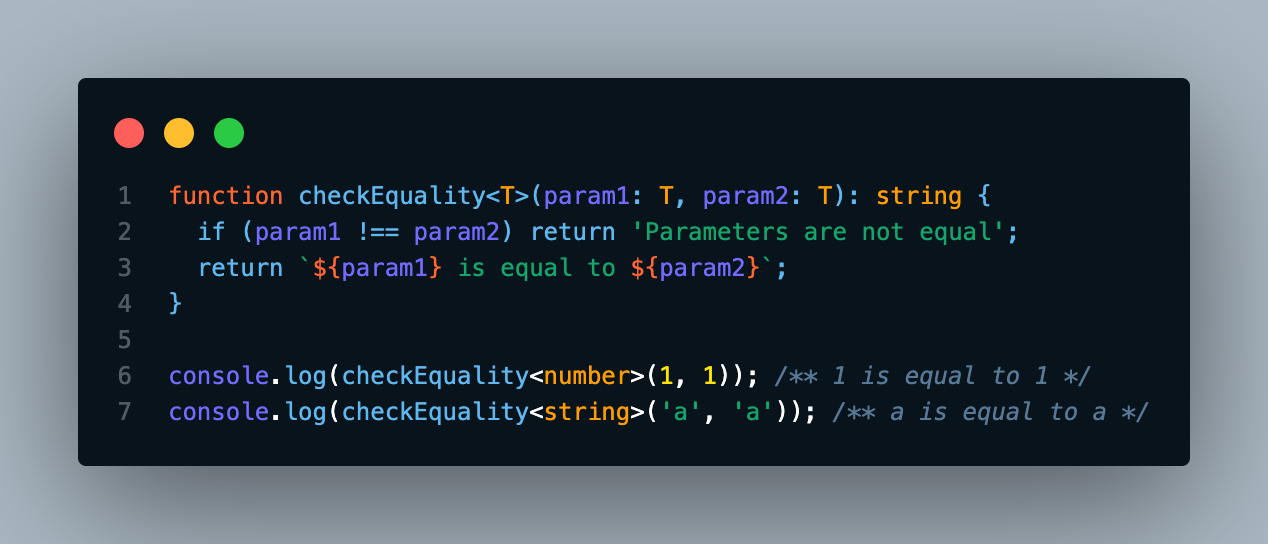
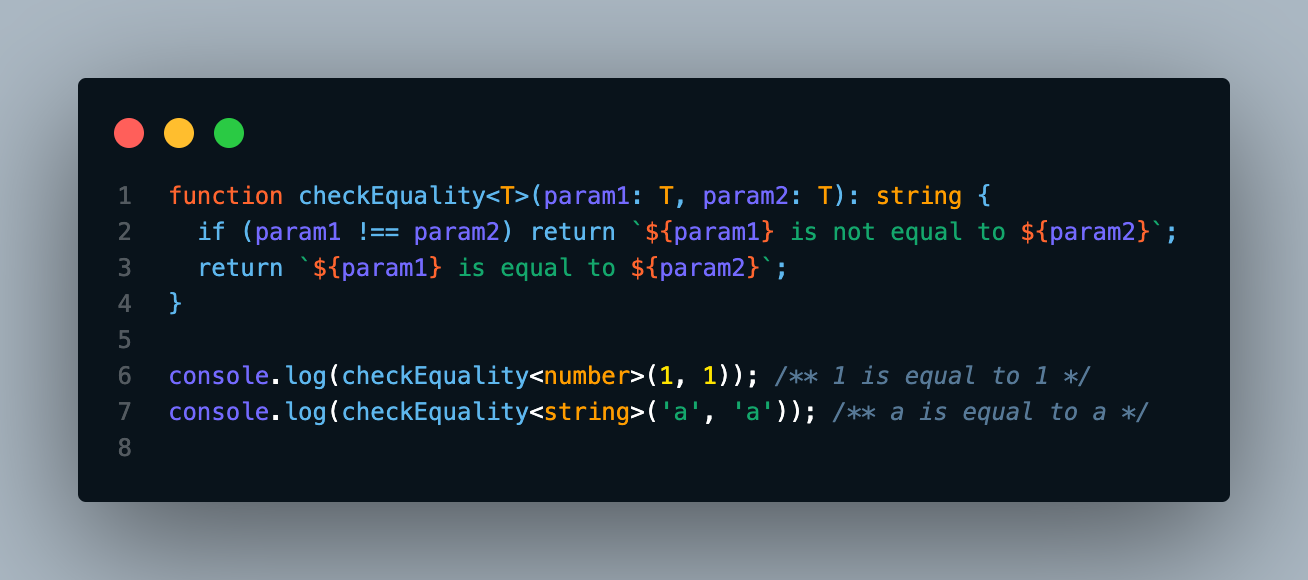
adicionando algumas correções feitas por Caio César e Daniel Outeiro

diff --git a/README.md b/README.md
@@ -1,16 +1,21 @@
-# Generics em TypeScript - Aplicações práticas
+# Aplicações na prática de tipos genéricos em TypeScript
 
 Esse conteúdo foi criado para a segunda etapa do processo seletivo de Summer Job de Currículo na [Trybe](https://www.betrybe.com/).
 
 <br>
 
-# O que vamos aprender? 
+## O que vamos aprender? 
 
 Hoje iremos aprender sobre **Generics**, uma funcionalidade fundamental do **TypeScript** e também de outras linguagens fortemente tipadas como **C#** e **Java**. Você verá como ele funciona na prática, e esse conhecimento será essencial para tornar seu código mais *flexível* e *reutilizável*. Vamos lá? 🚀
 
 <br>
 
-# Você será capaz de:
+---
+
+<br>
+
+
+## Você será capaz de:
 
 * Compreender o que são **Generics**
 * Utilizar Generics em funções
@@ -20,7 +25,14 @@ Hoje iremos aprender sobre **Generics**, uma funcionalidade fundamental do **Typ
 
 <br>
 
-# Por que isso é importante?
+---
+
+<br>
+
+## Por que isso é importante?
+
+<br>
+
 
 Sabemos que o **TypeScript** veio para solucionar problemas que o **JavaScript** por si só não consegue, sendo o principal deles, a tipagem de elementos. Saber os tipos das variáveis com que estamos trabalhando é um passo essencial para tornarmos nosso código mais robusto, confiável e menos propenso a erros.
 
@@ -42,16 +54,6 @@ Para começar, vamos a um exemplo prático. Suponha que você quer criar uma fun
 
 <br>
 
-<!-- ```typescript
-function checkEqualNumbers(num1: number, num2: number): string {
-  if (num1 !== num2) return `${num1} is not equal to ${num2}`;
-  return `${num1} is equal to ${num2}`;
-}
-
-console.log(checkEqualNumbers(1, 2)); /** 1 is not equal to 2 */
-console.log(checkEqualNumbers(1, 1)); /** 1 is equal to 1 */
-``` -->
-
 ![equalNumbers](./assets/equalNumbers.png)
 
 <br>
@@ -59,16 +61,6 @@ console.log(checkEqualNumbers(1, 1)); /** 1 is equal to 1 */
 Agora, imagine que você precise criar uma função que verifique se duas strings são iguais. Isso poderia ser feito assim:
 
 <br>
-
-<!-- ```typescript
-function checkEqualStrings(str1: string, str2: string): string {
-  if (str1 !== str2) return `${str1} is not equal to ${str2}`;
-  return `${str1} is equal to ${str2}`;
-}
-
-console.log(checkEqualStrings('a', 'b')); /** a is not equal to b */
-console.log(checkEqualStrings('a', 'a')); /** a is equal to a */
-``` -->
 
 ![equalStrings](./assets/equalStrings.png)
 
@@ -79,17 +71,6 @@ Você já deve ter reparado que estamos repetindo código, não é mesmo? Então
 É aqui que entram os `Generics`, veja como ficaria a nossa função de verificação genérica:
 
 <br>
-
-<!-- ```typescript
-function checkEquality<T>(param1: T, param2: T): string {
-  if (param1 !== param2) return `${param1} is not equal to ${param2}`;
-  return `${param1} is equal to ${param2}`;
-}
-
-console.log(checkEquality<number>(1, 1)); /** 1 is equal to 1 */
-console.log(checkEquality<string>('a', 'a')); /** a is equal to a */
-console.log(checkEquality<boolean>(true, false)); /** true is not equal to false */
-``` -->
 
 ![checkEquality](./assets/checkEquality.png)
 
@@ -135,10 +116,10 @@ function compareTypes<T, U>(param1: T, param2: U): boolean {
   return typeof param1 === typeof param2
 }
 
-console.log(compareTypes<number, string>(1, 'a'));
+console.log(compareTypes<boolean, string>(false, 'a'));
 /** imprime false */
 
-console.log(compareTypes<boolean, boolean>(true, false));
+console.log(compareTypes<number, number>(1, 2));
 /** imprime true */
 ```
 
@@ -151,7 +132,7 @@ console.log(compareTypes<boolean, boolean>(true, false));
 
   ### Escreva uma função chamada *mergeObjects* que deve receber dois objetos de tipos genéricos e retornar a junção deles.
 
-  - Dica: lembre-se da funcionalidade `Object.assign`
+  - Dica: lembre-se do [spread operator](https://developer.mozilla.org/en-US/docs/Web/JavaScript/Reference/Operators/Spread_syntax)
 </details>
 
 <br>
@@ -221,20 +202,21 @@ class KeyValuePair<K = string, V = number> {
   public getValue() { return this.value; }
 }
 
-const instance1 = new KeyValuePair('id', 2);
+const instance1 = new KeyValuePair<string, number>('id', 2);
 instance1.setKeyValue('ID', 22);
 
 console.log(instance1.getKey());
 /** imprime 'ID' */
 
-const instance2 = new KeyValuePair(2, 'value');
-instance2.setKeyValue('value', 2); /** gera erro */
+const instance2 = new KeyValuePair<number, string>(2, 'value');
+instance2.setKeyValue('value', 2);
+/** Error: Argument of type 'string' is not assignable to parameter of type 'number'. */
 ```
 <br>
 
-Aqui estamos criando uma classe chamada `KeyValuePair` que recebe em seu construtor os parâmetros `key` e `value`, de tipos genéricos. Além disso possui os métodos *getKey* e *getValue* para recupera os valores privados, e o método *setKeyValue*, que altera ambos os valores de uma vez.
+Aqui estamos criando uma classe chamada `KeyValuePair` que recebe em seu construtor os parâmetros `key` e `value`, de tipos genéricos. Além disso possui os métodos *getKey* e *getValue* para recuperar os valores privados, e o método *setKeyValue*, que altera ambos os valores de uma vez.
 
-Nesse exemplo podemos ver que, ao tentar chamar o método *setKeyValue* da instância `instance2`, o *TypeScript* gera um erro dizendo que o tipo `string` não pode ser assinalado ao tipo `number`.
+Nesse exemplo, podemos ver que ao tentar chamar o método *setKeyValue* da instância `instance2`, o *TypeScript* gera um erro dizendo que o tipo `string` não pode ser assinalado ao tipo `number`.
 
 Isso acontece porque quando criamos a instância `instance2`, definimos que o tipo do primeiro parâmetro é `number` e o tipo do segundo parâmetro é `string`. Uma vez definidos os tipos, não podemos mais alterá-los.
 
